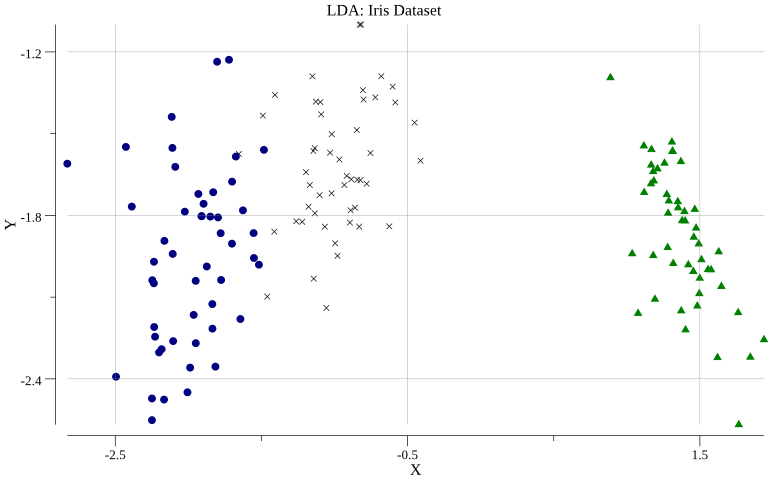
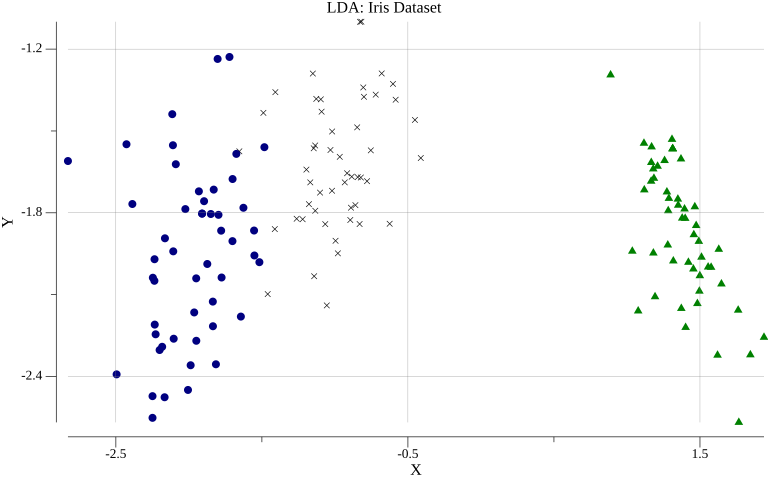
update to the latest gonum
The old version of gonum that this was built on did not have a go.mod
file and so it was impossible to lock the version of the dependency. The
newer version seemed to have changed a few method signatures and this
change addresses that as well. The biggest change was that when getting
the eigen vectors, we now get a complex matrix instead of a matrix with
just real numbers. After some testing, we believe that the imaginary
parts are always zero, so this code converts the complex matrices to
real matrices in order to do the same math we did before.

diff --git a/lda.go b/lda.go
@@ -73,7 +73,7 @@ func (ld *LD) LinearDiscriminant(x mat.Matrix, y []int) (err error) {
 
 	// Tol is a tolerence to decide if a covariance matrix is singular (det is zero)
 	// Tol will reject variables whose variance is less than tol
-	var tol = 1E-4
+	var tol = 1e-4
 
 	ld.k = len(labels)
 	if ld.k < 2 {
@@ -161,7 +161,7 @@ func (ld *LD) LinearDiscriminant(x mat.Matrix, y []int) (err error) {
 	CwInverse.Inverse(Cw)
 	dotResult := mat.NewDense(ld.p, ld.p, make([]float64, ld.p*ld.p, ld.p*ld.p))
 	dotResult.Mul(CwInverse, Cb)
-	ld.eigen.Factorize(dotResult, false, true)
+	ld.eigen.Factorize(dotResult, mat.EigenRight)
 
 	// Factorize returns whether the decomposition of the matrix into eigenvectors
 	// and eigenvalues succeeded.
@@ -169,6 +169,26 @@ func (ld *LD) LinearDiscriminant(x mat.Matrix, y []int) (err error) {
 	evals := make([]complex128, ld.p)
 	ld.eigen.Values(evals)
 	return nil
+}
+
+// roRealMatrix returns a dense matrix with just the real parts of the given complex matrix
+func toRealMatrix(m mat.CMatrix) *mat.Dense {
+	r, c := m.Dims()
+	out := mat.NewDense(r, c, nil)
+	for i := 0; i < c; i++ {
+		for j := 0; j < r; j++ {
+			out.Set(i, j, real(m.At(i, j)))
+		}
+	}
+	return out
+}
+
+// getRealVectors returns the right eigen vectors as a real matrix, discarding
+// the imaginary parts of the complex vectors
+func getRealVectors(e *mat.Eigen) *mat.Dense {
+	var complexVectors mat.CDense
+	e.VectorsTo(&complexVectors)
+	return toRealMatrix(&complexVectors)
 }
 
 // Transform performs a transformation on the
@@ -179,7 +199,7 @@ func (ld *LD) LinearDiscriminant(x mat.Matrix, y []int) (err error) {
 // Parameter n is the number of dimensions desired.
 // Returns the transformed matrix.
 func (ld *LD) Transform(x mat.Matrix, n int) *mat.Dense {
-	evecs := ld.eigen.Vectors()
+	evecs := getRealVectors(&ld.eigen)
 	W := mat.NewDense(ld.p, n, nil)
 	for i := 0; i < n; i++ {
 		temp := mat.Col(nil, i, evecs)
@@ -219,7 +239,7 @@ func (ld *LD) Predict(x []float64) (int, error) {
 		for j := 0; j < ld.p; j++ {
 			d[j] = x[j] - ld.mu.At(i, j)
 		}
-		evecs := ld.eigen.Vectors()
+		evecs := getRealVectors(&ld.eigen)
 		Atr := evecs.T()
 		D := mat.NewDense(len(d), 1, d)
 		UX.Mul(Atr, D) // eigen vector transpose * (measurement - sum of class means)

diff --git a/lda_test.go b/lda_test.go
@@ -142,10 +142,7 @@ func checkError(message string, err error) {
 // PlotLDA plots the LDA transformation on an (X,Y) plane and returns a PNG
 // of the graph, which is saved in the same directory as the source code
 func PlotLDA(Data *mat.Dense, labels []int, imageTitle string, graphTitle string) {
-	p, err := plot.New()
-	if err != nil {
-		panic(err)
-	}
+	p := plot.New()
 	p.Title.Text = graphTitle
 	p.X.Label.Text = "X"
 	p.Y.Label.Text = "Y"
